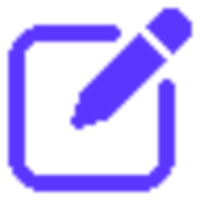
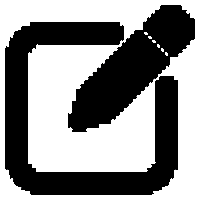
tweak css on form, fix loading states in gallery/ dashboard, fix white pics to black

diff --git a/src/components/PostForm/PostForm.js b/src/components/PostForm/PostForm.js
@@ -229,7 +229,7 @@ export default function PostForm({
             <input
               required
               placeholder="Enter price"
-              className="image-input input-with-dollar-sign"
+              className="image-input  price-input"
               type="number"
               step="1"
               name="price"
@@ -242,7 +242,7 @@ export default function PostForm({
             <span>Discount Price</span>
             <input
               placeholder="Enter discounted price"
-              className="image-input input-with-dollar-sign"
+              className="image-input  price-input"
               type="number"
               step="1"
               name="discountedPrice"

diff --git a/src/components/MainGalleryPostCard/MainGalleryPostCard.js b/src/components/MainGalleryPostCard/MainGalleryPostCard.js
@@ -13,19 +13,10 @@ export default function MainGalleryPostCard({
   discountedPrice,
   originalPrice,
 }) {
-  const { additionalImagesGallery, loading } = useGalleryPost(id);
+  const { additionalImagesGallery } = useGalleryPost(id);
 
   // Determine whether to show discounted price or not
   const isDiscounted = discountedPrice && parseFloat(discountedPrice) < parseFloat(originalPrice);
-
-  // Handle loading state
-  if (loading) {
-    return (
-      <div className="gallery-display-container loading">
-        <p>Loading...</p>
-      </div>
-    );
-  }
 
   return (
     <div className="gallery-display-container" key={id}>

diff --git a/src/components/PostCard/PostCard.js b/src/components/PostCard/PostCard.js
@@ -32,15 +32,6 @@ export default function PostCard({
   // Determine whether to show discounted price or not
   const isDiscounted = discountedPrice && parseFloat(discountedPrice) < parseFloat(originalPrice);
 
-  // Handle the case where data is still loading
-  if (loading) {
-    return (
-      <div className="post loading">
-        <p>Loading...</p>
-      </div>
-    );
-  }
-
   // delete the post
   const handleDelete = async () => {
     try {

diff --git a/src/components/PostForm/PostForm.css b/src/components/PostForm/PostForm.css
@@ -337,6 +337,7 @@ option {
 
 .price-in-form {
   display: grid;
+  justify-content: center;
 }
 
 .labels-form-inputs {
@@ -351,6 +352,13 @@ option {
   margin-top: 20px;
 }
 
+.form-wrapper span {
+  color: white;
+}
+.form-wrapper .price-input {
+  text-align: right;
+  justify-self: flex-end;
+}
 @media (min-width: 768px) {
   .new-post-form {
     width: 700px;

diff --git a/src/components/PostDetail/PostDetail.css b/src/components/PostDetail/PostDetail.css
@@ -326,7 +326,7 @@
   left: 1.8rem;
   transform: translateX(-50%);
   transition: 500ms;
-  background-color: #5b36ff83;
+  background-color: #00000083;
   color: white;
   padding: 3px 10px;
   border: 1px solid white;
